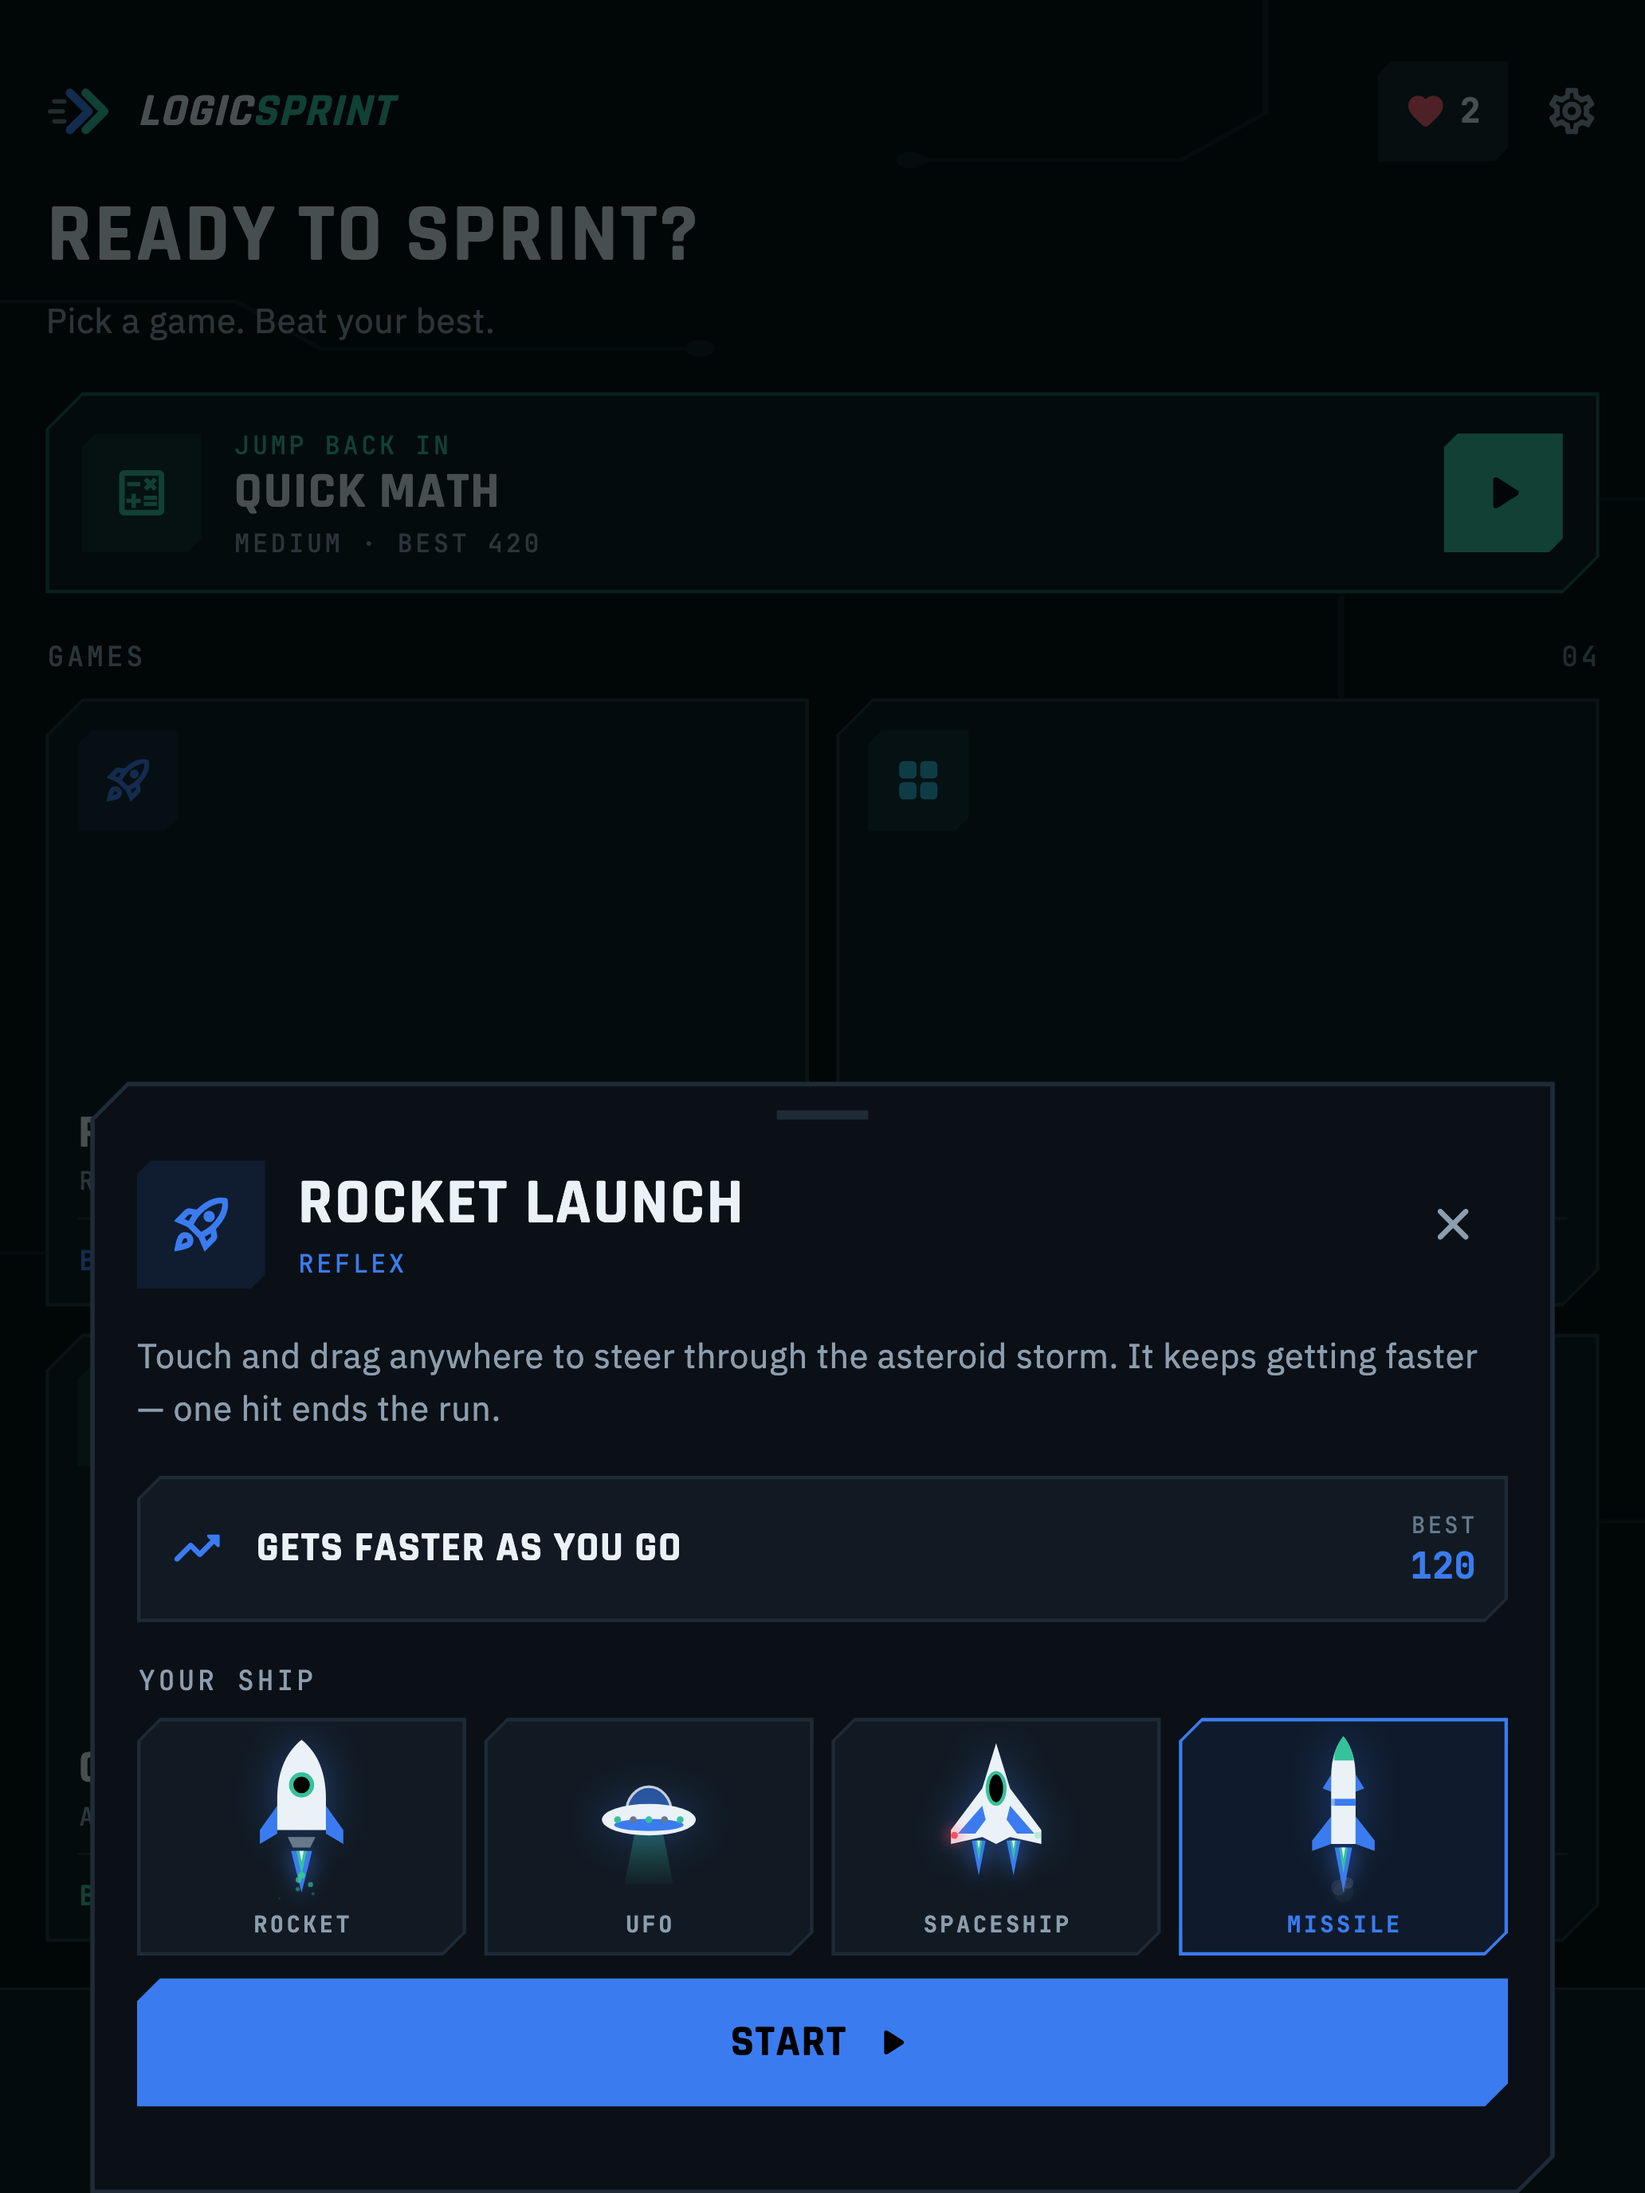
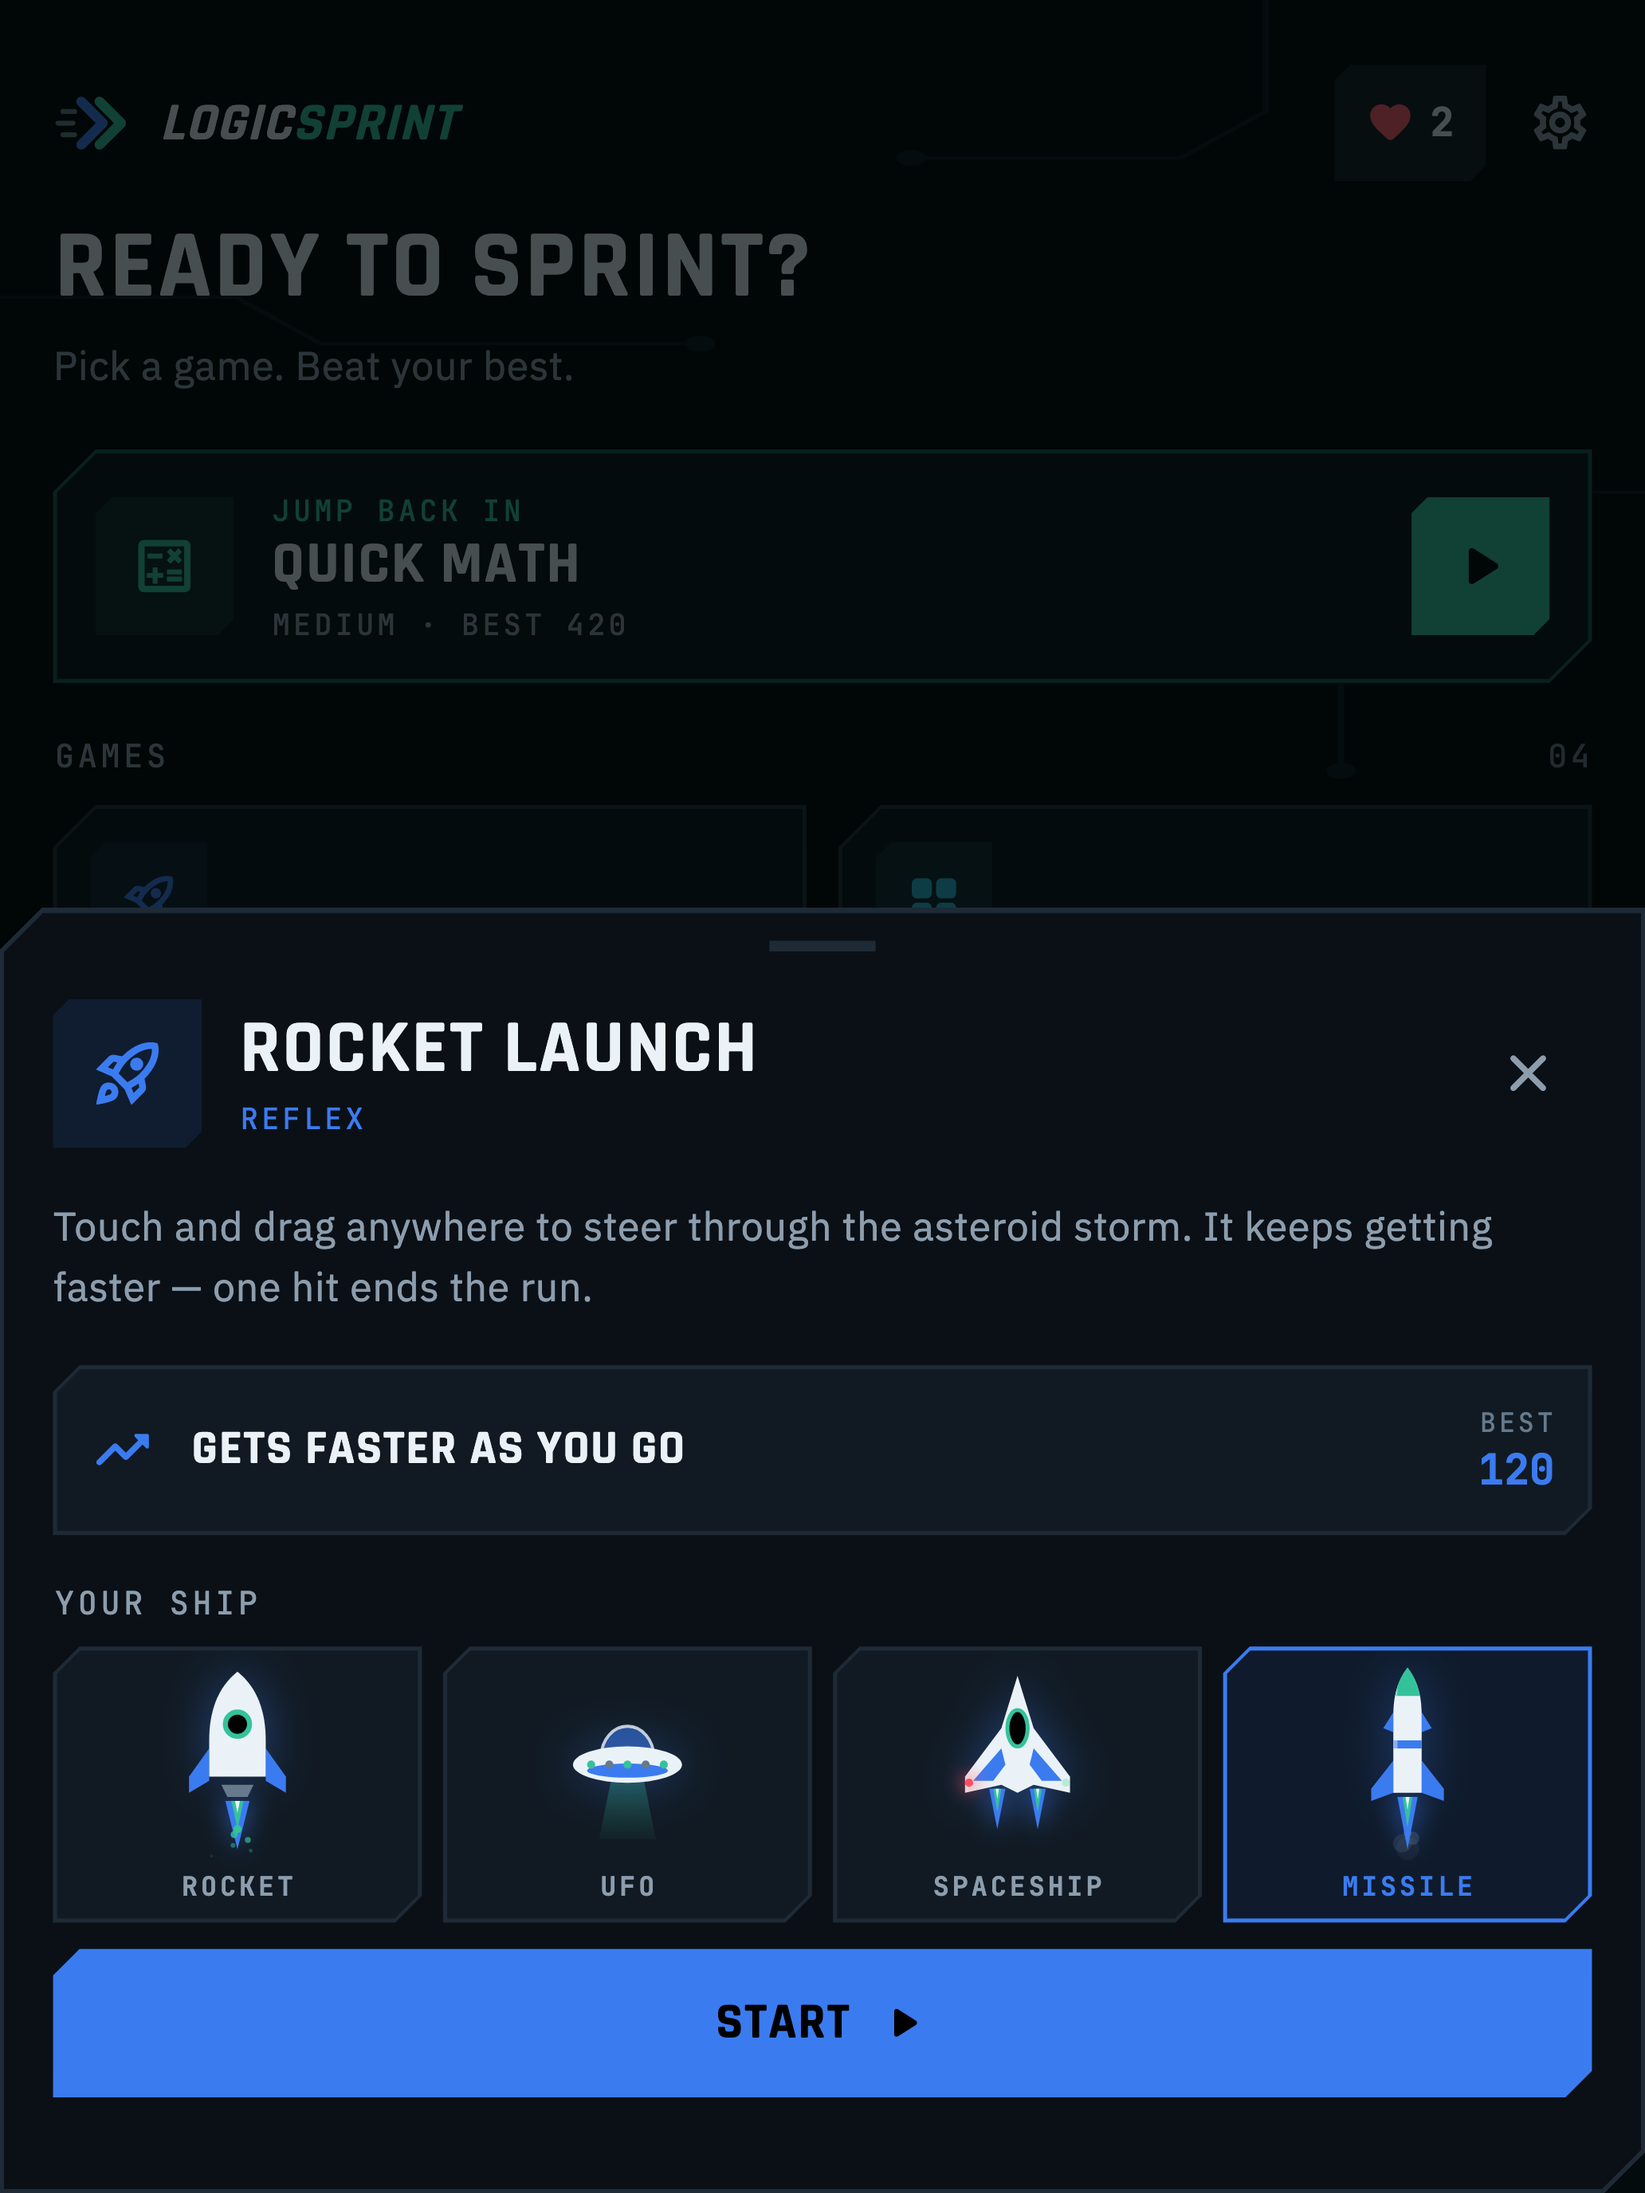
ios: keep the tracking prompt; bigger iPad layout
- Restore NSUserTrackingUsageDescription: Allow = personalized ads,
  Ask Not to Track = non-personalized ads (still paid); nobody is opted out
  by default. Privacy policy, review notes, App Privacy answers and plan
  back to the tracking wording
- TabletFrame design width 720 → 620: everything ~16% larger on iPad and
  the whole home screen still fits; iPad screenshots re-rendered

diff --git a/lib/ui/tablet_frame.dart b/lib/ui/tablet_frame.dart
@@ -11,7 +11,7 @@ class TabletFrame extends StatelessWidget {
 
   final Widget child;
 
-  static const designWidth = 720.0;
+  static const designWidth = 620.0;
 
   /// True inside a scaled tablet frame.
   static bool isTablet(BuildContext context) =>

diff --git a/docs/ios_release_plan.md b/docs/ios_release_plan.md
@@ -62,7 +62,7 @@ Android ad units don't serve on iOS; iOS needs its own AdMob app.
 - [x] Create `config/admob.ios.json` (gitignored, same keys as `config/admob.json`) with the iOS app ID and unit IDs. `ADMOB_APP_ID` is written into Info.plist by the "AdMob App ID" build phase; a release build fails without it
 - [ ] AdMob → Privacy & messaging:
   - [ ] GDPR message: add the iOS app
-  - [ ] **IDFA explainer** message: **unpublish / delete it**. The app has no tracking prompt (decision: no ATT)
+  - [ ] **IDFA explainer** message: create and publish it (it's shown before Apple's tracking prompt)
   - [ ] US state regulations message: add the iOS app
 - [ ] Add the iOS app ID line to `assets/brand/store/app-ads.txt` and re-host it at https://logicsprint.trupalpatel.com/app-ads.txt
 
@@ -74,7 +74,7 @@ Android ad units don't serve on iOS; iOS needs its own AdMob app.
 |---|---|---|---|
 | 1 | `ios/Runner/Info.plist` + "AdMob App ID" build phase | `GADApplicationIdentifier` keeps Google's test ID in the file; every build replaces it with `ADMOB_APP_ID` from the dart-defines (same approach as `android/app/build.gradle.kts`). Release builds fail without it | ✅ |
 | 2 | `Info.plist` | `SKAdNetworkItems` with Google's ID (`cstr6suwn9`). Add the third-party buyer list from https://developers.google.com/admob/ios/3p-skadnetworks for more ad demand | ✅ (Google only) |
-| 3 | `Info.plist` | No `NSUserTrackingUsageDescription`: no tracking prompt, the IDFA is never accessed | ✅ (removed) |
+| 3 | `Info.plist` | `NSUserTrackingUsageDescription` (tracking prompt kept: Allow = personalized ads, Ask Not to Track = non-personalized ads, still paid) | ✅ |
 | 4 | `Info.plist` | `ITSAppUsesNonExemptEncryption = false` | ✅ |
 | 5 | `Info.plist` | Portrait only (iPad: portrait both ways, `UIRequiresFullScreen`) | ✅ |
 | 6 | `Runner.xcodeproj` | `TARGETED_DEVICE_FAMILY = 1` (iPhone) in all configurations | ✅ |
@@ -84,13 +84,13 @@ Android ad units don't serve on iOS; iOS needs its own AdMob app.
 | 10 | `Makefile` | `make build-ios` uses `config/admob.ios.json` and stops if it's missing | ✅ |
 | 11 | `pubspec.yaml` | `version: 1.0.2+4` | ✅ |
 
-### 3b. No App Tracking Transparency (decided)
+### 3b. App Tracking Transparency (kept)
 
-The app never shows Apple's tracking prompt: `NSUserTrackingUsageDescription` is not in
-Info.plist, so iOS can't show it and the Google Mobile Ads SDK can't read the IDFA. AdMob
-still serves (non-IDFA-personalized) ads and pays as usual; SKAdNetwork still attributes
-installs. EEA/UK users still get Google's GDPR consent form. Remaining: unpublish the IDFA
-explainer in AdMob, and answer **No** to every "used for tracking" question in App Privacy.
+Google's UMP SDK shows the IDFA explainer, then Apple's prompt. **Allow** → personalized ads
+(higher revenue); **Ask App Not to Track** → ads still show, not personalized with the IDFA
+(lower revenue). Nobody is opted out by default. Remaining: keep the IDFA explainer published
+in AdMob, and answer **Yes** to "used for tracking" for Device ID, Product Interaction and
+Advertising Data in App Privacy.
 
 ### 3c. In-app data deletion ✅
 
@@ -136,15 +136,15 @@ select column_name from information_schema.columns
   - Keywords (100, comma separated, no spaces)
   - Promotional text (170), description (4000), What's New
   - Support URL and Marketing URL: https://logicsprint.trupalpatel.com
-- [x] **Privacy policy** covers iOS (no tracking, IDFA never accessed), in-app deletion and name reporting; it's bundled in the app too
+- [x] **Privacy policy** covers iOS (IDFA, the tracking prompt, iOS Settings → Tracking), in-app deletion and name reporting; it's bundled in the app too
 - [ ] Host the updated policy and set its URL in App Store Connect
 - [ ] **App Privacy** questionnaire in App Store Connect:
 
 | Data type | Linked to user | Used for tracking | Purpose |
 |---|---|---|---|
-| Device ID (AdMob, IDFV only) | No | No | Third-party advertising, Analytics |
-| Product interaction | No | No | Third-party advertising, Analytics |
-| Advertising data | No | No | Third-party advertising |
+| Device ID (IDFA) | No | **Yes** | Third-party advertising, Analytics |
+| Product interaction | No | Yes | Third-party advertising, Analytics |
+| Advertising data | No | Yes | Third-party advertising |
 | Name (leaderboard display name) | Yes | No | App functionality |
 | Gameplay content (scores) | Yes | No | App functionality |
 
@@ -162,7 +162,7 @@ make build-ios   # → build/ios/ipa/*.ipa
 - [ ] Upload with **Transporter** (Mac App Store), or open `build/ios/archive/Runner.xcarchive` in Xcode → Distribute App
 - [ ] Wait for processing (about 15–30 min), then TestFlight → internal testing → install on your iPhone
 - [ ] Run the QA smoke test in `docs/release_checklist.md` §5, plus these iOS-specific checks:
-  - [ ] No tracking prompt ever appears; ads still load (and the GDPR form appears in the EEA)
+  - [ ] The tracking prompt appears once, after the IDFA explainer; ads load when it's allowed and when it's denied
   - [ ] Real ads (not test ads) show on banner, rewarded and Ranks refresh
   - [ ] Swipe-from-edge back gesture during a run pauses the run and never quits it (Android's back button does the same)
   - [ ] Home indicator and Dynamic Island don't overlap the game top bar or the Rocket Launch play area

diff --git a/assets/brand/docs/store_listing.md b/assets/brand/docs/store_listing.md
@@ -155,18 +155,16 @@ Upload each set in number order (all 9; up to 10 allowed). See README for the re
 No login: every player signs in anonymously in the background, and a leaderboard name is optional.
 Delete account data: Settings (gear on the Play tab) → Delete leaderboard data.
 Report a name: on the Ranks tab, long-press another player's row → Report. Names are also checked against a word filter.
-Ads: Google AdMob (banner and optional rewarded videos). The app does not use App Tracking Transparency and never accesses the IDFA; EEA/UK users see Google's GDPR consent form.
+Ads: Google AdMob (banner and optional rewarded videos). The App Tracking Transparency prompt appears on first launch, after Google's explainer; ads still show (not personalized) when tracking is declined.
 ```
 - Contact: Trupal Patel, trupal.work@gmail.com
 
 ## App Privacy (App Store Connect → App Privacy)
 | Data type | Linked to user | Tracking | Purposes |
 |---|---|---|---|
-| Identifiers → Device ID (AdMob; IDFV only, the IDFA is never accessed) | No | No | Third-party advertising, Analytics |
-| Usage data → Product interaction (AdMob) | No | No | Third-party advertising, Analytics |
-| Usage data → Advertising data (AdMob) | No | No | Third-party advertising |
-
-No tracking: the app has no App Tracking Transparency prompt, so every "Used for tracking" answer is **No** and the listing shows no "Data Used to Track You" section.
+| Identifiers → Device ID (IDFA, AdMob) | No | Yes | Third-party advertising, Analytics |
+| Usage data → Product interaction (AdMob) | No | Yes | Third-party advertising, Analytics |
+| Usage data → Advertising data (AdMob) | No | Yes | Third-party advertising |
 | Diagnostics → Other diagnostic data (AdMob) | No | No | Analytics |
 | Contact info → Name (leaderboard display name) | Yes | No | App functionality |
 | User content → Gameplay content (scores) | Yes | No | App functionality |

diff --git a/assets/brand/docs/privacy_policy.md b/assets/brand/docs/privacy_policy.md
@@ -25,7 +25,7 @@ Hearts and revives are tracked only on your device and are never sold or linked 
 If you are in the European Economic Area, the United Kingdom, or Switzerland, the app asks for your consent before showing personalized ads. You can change your choice at any time in **Settings → Privacy Choices**.
 
 - **Android:** you can reset or delete your advertising ID in your device's Google settings.
-- **iPhone:** the app does not ask for permission to track you, so your device's advertising identifier (IDFA) is never available to the app or to Google. Ads on iPhone are not personalized using that identifier.
+- **iPhone:** the app asks for permission to track (Apple's App Tracking Transparency prompt) before your device's advertising identifier (IDFA) can be used for personalized ads. If you choose "Ask App Not to Track", Google shows ads that are not personalized using that identifier. You can change this at any time in **iOS Settings → Privacy & Security → Tracking**.
 
 ## What we do not collect
 
